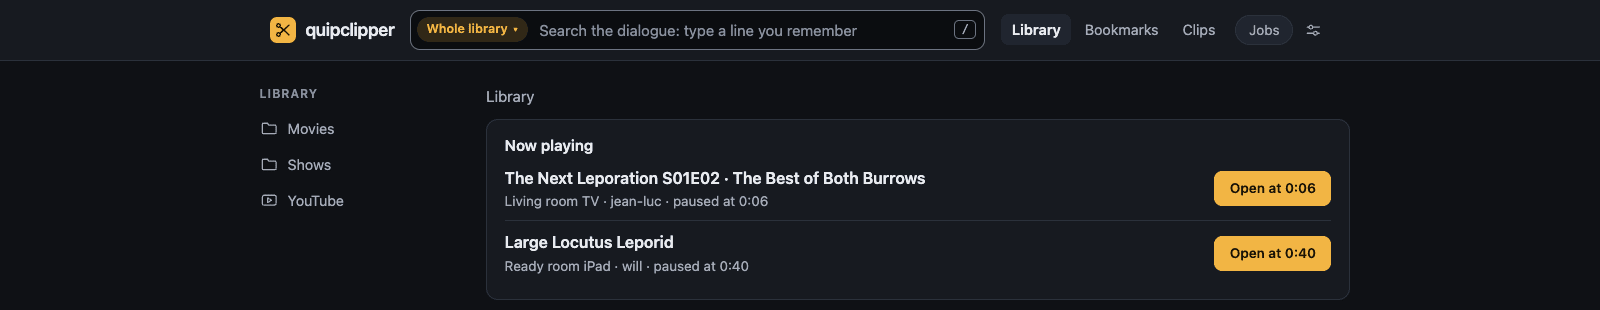
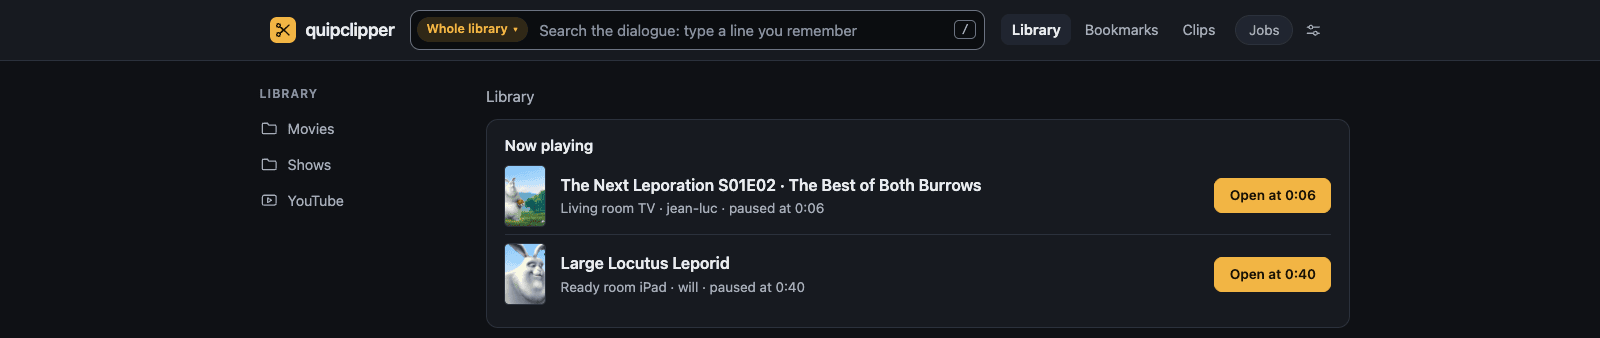
docs: screenshots and social preview of the 0.2.0 UI, with the waveform strip (M19)
Retook all seven README screenshots from the Large Locutus Leporid fixture on
a local dev server. Every one had changed since M17: the zoomable waveform
under the player (both workspaces, the phone), Jellyfin posters and stills
(library, Now playing, workspace header), and Copy link (Selection panel,
search hits).

- fake_jellyfin.py now serves the library listing the title index reads and
  posters/stills cut from the fixture's frames (needs FIXTURE).
- shoot.py waits for the waveform's peaks, scrolls the phone shot so the strip
  sits above the pinned selection, and fits the library and Now playing crops
  to their content (the poster rows are taller).
- social-preview.py draws a waveform strip with in/out handles, cue spans,
  playhead and ruler in place of the dialogue-map bars, rendered at 1280x640.
- README: the features list gains the waveform; captions and alt text
  describe what each shot now shows.

diff --git a/docs/screenshots/fixture/fake_jellyfin.py b/docs/screenshots/fixture/fake_jellyfin.py
@@ -1,28 +1,76 @@
-"""A fake Jellyfin for the Now playing screenshot: two clients, both paused.
+"""A fake Jellyfin for the screenshots: two paused clients, titles and artwork.
+
+    FIXTURE=<make-fixture.sh OUT_DIR> python3 fake_jellyfin.py
 
 Run it, then start the server with QC_JELLYFIN_URL=http://127.0.0.1:8097,
 QC_JELLYFIN_API_KEY=anything and
 QC_JELLYFIN_PATH_MAP=/data/movies=$FIXTURE/Movies:/data/shows=$FIXTURE/Shows.
+It answers the Now playing sessions, the library listing the title index reads, and
+the posters and stills, which it cuts from the fixture's own frames with ffmpeg on
+the first start (into $FIXTURE/art).
 """
 import json
+import os
+import subprocess
 from http.server import BaseHTTPRequestHandler, ThreadingHTTPServer
+from urllib.parse import parse_qs, urlparse
 
 TICKS = 10_000_000
+FIXTURE = os.environ["FIXTURE"]
+MOVIE_PATH = "/data/movies/Large Locutus Leporid (2016)/Large Locutus Leporid (2016).mp4"
+SEASON = "/data/shows/The Next Leporation/Season 01/"
+
+# Jellyfin ids and image tags are 32 hex digits.
+MOVIE, SERIES, SEASON_ID = "1" * 32, "2" * 32, "3" * 32
+EPISODES = [("4" * 32, 1, "Encounter at Meadowpoint", 20),
+            ("5" * 32, 2, "The Best of Both Burrows", 34),
+            ("6" * 32, 3, "Q Who Hops", 42)]
+TAG = "a" * 32
+
+# Image id -> (source file under FIXTURE, second, crop). Posters are 2:3, stills 16:9.
+POSTER = "crop=ih*2/3:ih,scale=400:600"
+STILL = "scale=640:360"
+MOVIE_FILE = "Movies/Large Locutus Leporid (2016)/Large Locutus Leporid (2016).mp4"
+ART = {MOVIE: (MOVIE_FILE, 40.1, POSTER), SERIES: (MOVIE_FILE, 71.0, POSTER)}
+for ep_id, n, title, dur in EPISODES:
+    ART[ep_id] = (f"Shows/The Next Leporation/Season 01/"
+                  f"The Next Leporation - S01E0{n} - {title}.mp4", dur / 2, STILL)
+
+
+def make_art():
+    out = os.path.join(FIXTURE, "art")
+    os.makedirs(out, exist_ok=True)
+    for item_id, (src, t, vf) in ART.items():
+        dst = os.path.join(out, item_id + ".jpg")
+        if not os.path.exists(dst):
+            subprocess.run(["ffmpeg", "-nostdin", "-v", "error", "-y", "-ss", str(t), "-i",
+                            os.path.join(FIXTURE, src), "-frames:v", "1", "-vf", vf,
+                            "-q:v", "3", dst], check=True)
+    return out
+
+
+def movie_item():
+    return {"Id": MOVIE, "Name": "Large Locutus Leporid", "ProductionYear": 2016,
+            "Type": "Movie", "RunTimeTicks": 100 * TICKS, "Path": MOVIE_PATH,
+            "ImageTags": {"Primary": TAG}}
+
+
+def episode_item(ep_id, n, title, dur):
+    return {"Id": ep_id, "Name": title, "Type": "Episode", "RunTimeTicks": dur * TICKS,
+            "SeriesName": "The Next Leporation", "SeriesId": SERIES,
+            "SeriesPrimaryImageTag": TAG, "SeasonId": SEASON_ID, "SeasonName": "Season 1",
+            "ParentIndexNumber": 1, "IndexNumber": n, "ProductionYear": 2016,
+            "Path": f"{SEASON}The Next Leporation - S01E0{n} - {title}.mp4",
+            "ImageTags": {"Primary": TAG}}
+
+
+ITEMS = [movie_item()] + [episode_item(*e) for e in EPISODES]
 SESSIONS = [
     {"Id": "s-lr", "UserName": "jean-luc", "DeviceName": "Living room TV",
-     "Client": "Jellyfin Android TV",
-     "NowPlayingItem": {"Id": "e2", "Name": "The Best of Both Burrows",
-                        "SeriesName": "The Next Leporation", "ParentIndexNumber": 1,
-                        "IndexNumber": 2, "Type": "Episode", "RunTimeTicks": 34 * TICKS,
-                        "Path": "/data/shows/The Next Leporation/Season 01/"
-                                "The Next Leporation - S01E02 - The Best of Both Burrows.mp4"},
+     "Client": "Jellyfin Android TV", "NowPlayingItem": ITEMS[2],
      "PlayState": {"PositionTicks": int(6.2 * TICKS), "IsPaused": True}},
     {"Id": "s-rr", "UserName": "will", "DeviceName": "Ready room iPad",
-     "Client": "Jellyfin Mobile (iOS)",
-     "NowPlayingItem": {"Id": "m1", "Name": "Large Locutus Leporid", "ProductionYear": 2016,
-                        "Type": "Movie", "RunTimeTicks": 100 * TICKS,
-                        "Path": "/data/movies/Large Locutus Leporid (2016)/"
-                                "Large Locutus Leporid (2016).mp4"},
+     "Client": "Jellyfin Mobile (iOS)", "NowPlayingItem": ITEMS[0],
      "PlayState": {"PositionTicks": int(40.1 * TICKS), "IsPaused": True}},
 ]
 
@@ -31,14 +79,33 @@ class Handler(BaseHTTPRequestHandler):
     def log_message(self, *a):
         pass
 
-    def do_GET(self):
-        body = SESSIONS if self.path.startswith("/Sessions") else {"Items": []}
-        data = json.dumps(body).encode()
-        self.send_response(200)
-        self.send_header("Content-Type", "application/json")
+    def send(self, data, ctype="application/json", status=200):
+        self.send_response(status)
+        self.send_header("Content-Type", ctype)
         self.send_header("Content-Length", str(len(data)))
         self.end_headers()
         self.wfile.write(data)
 
+    def do_GET(self):
+        url = urlparse(self.path)
+        query = parse_qs(url.query)
+        parts = url.path.strip("/").split("/")
+        if parts[0] == "Sessions":
+            return self.send(json.dumps(SESSIONS).encode())
+        if parts[0] == "Items" and len(parts) == 4 and parts[2] == "Images":
+            path = os.path.join(ART_DIR, parts[1] + ".jpg")
+            if not os.path.exists(path):
+                return self.send(b"{}", status=404)
+            with open(path, "rb") as f:
+                return self.send(f.read(), "image/jpeg")
+        if parts == ["Items"]:
+            if "Ids" in query:
+                items = [i for i in ITEMS if i["Id"] in query["Ids"][0].split(",")]
+            else:  # the title index reads the listing in pages
+                items = ITEMS if query.get("StartIndex", ["0"])[0] == "0" else []
+            return self.send(json.dumps({"Items": items}).encode())
+        self.send(json.dumps({"Items": []}).encode())
 
+
+ART_DIR = make_art()
 ThreadingHTTPServer(("127.0.0.1", 8097), Handler).serve_forever()

diff --git a/docs/screenshots/social-preview.py b/docs/screenshots/social-preview.py
@@ -7,14 +7,17 @@ FRAME.png is the fixture's frame at 0:40.1 (the big bunny), e.g.
 Writes OUT_DIR/social-preview.{json,figcraft,png}. Needs figcraft-cli and the kit from the
 figcraft skill (~/.claude/skills/figcraft/figcraft_kit.py).
 """
+import math
 import os
+import random
 import sys
 
 sys.path.insert(0, os.path.expanduser("~/.claude/skills/figcraft"))
 from figcraft_kit import Script, build  # noqa: E402
 
 # tokens.css, dark
-BG, SURFACE, RAISED, LINE = "#0F1115", "#171A20", "#202530", "#2B313C"
+BG, SURFACE, RAISED, SUNKEN = "#0F1115", "#171A20", "#202530", "#0B0D10"
+LINE, LINE_STRONG = "#2B313C", "#6A7282"
 TEXT, DIM, FAINT = "#E9EBEF", "#A6ACB8", "#8890A0"
 ACCENT, ACCENT_INK, PLAYHEAD = "#F2B544", "#1A1303", "#5BB5FF"
 ACCENT_SOFT = "#F2B54429"
@@ -57,7 +60,8 @@ s.text(page, "github.com/weckere/quipclipper", X, 548, size=20, color=FAINT)
 # --- right: a slice of the workspace ---------------------------------------------------
 CX, CW = 700, 500
 IW, IH = CW - 32, int((CW - 32) * 568 / 1008)
-CH = 16 + IH + 16 + 44 + 12 + 3 * 40 + 16   # video, map, three lines
+SH = 96                                     # the waveform strip
+CH = 16 + IH + 16 + SH + 12 + 3 * 40 + 16   # video, waveform, three lines
 CY = (H - CH) // 2
 card = s.frame(page, "workspace card", CX, CY, CW, CH, fill=SURFACE, radius=18, stroke=LINE)
 video = s.frame(card, "video", 16, 16, IW, IH, fill="#000000", radius=10)
@@ -67,20 +71,78 @@ SW = 340  # fits the line at 19 px
 s.rect(video, "subtitle box", (IW - SW) // 2, IH - 50, SW, 32, "#000000B8", radius=4)
 s.text(video, sub, 0, IH - 46, size=19, w=IW, align="center", color="#FFFFFF", style="Medium")
 
-# The dialogue map: a bar per line, the selection amber, the playhead blue.
+# The waveform strip, as the app draws it (app.js wfDraw): the subtitle lines as spans
+# along the top, the wave, the selection shaded between its amber in and out handles,
+# the playhead blue, a time ruler along the bottom. Zoomed to the selected line.
 MY = 16 + IH + 16
-strip = s.frame(card, "dialogue map", 16, MY, IW, 44, fill=BG, radius=8, stroke=LINE)
-cues = [2, 5, 9, 13.5, 17, 26, 29, 34, 38.5, 45, 52, 61, 66, 73, 86, 91, 96]
-for t in cues:
-    x = 10 + (IW - 20) * t / 100
-    s.rect(strip, f"bar {t}", x, 8, 3, 28, ACCENT if t == 38.5 else FAINT, radius=1)
-s.rect(strip, "playhead", 10 + (IW - 20) * 40.1 / 100, 4, 2, 36, PLAYHEAD)
+V0, V1 = 36.6, 43.6
+CUE_LANE, RULER = 18, 16
+strip = s.frame(card, "waveform", 16, MY, IW, SH, fill=SUNKEN, radius=8, stroke=LINE)
+
+
+def wx(t):
+    return IW * (t - V0) / (V1 - V0)
+
+
+TOP, BOTTOM = CUE_LANE, SH - RULER
+MID, HALF = (TOP + BOTTOM) / 2, (BOTTOM - TOP) / 2 - 2
+SEL_IN, SEL_OUT = 38.3, 41.9
+s.rect(strip, "selection", wx(SEL_IN), 0, wx(SEL_OUT) - wx(SEL_IN), BOTTOM, ACCENT_SOFT)
+
+cues = [(34.0, 37.5, "From this time forward, you will service us."),
+        (38.5, 41.5, "You will become one with the Borg."),
+        (45.0, 48.0, "Strength is irrelevant.")]
+for a, b, text in cues:
+    if b < V0 or a > V1:
+        continue
+    l, r = max(0, wx(a)), min(IW, wx(b))
+    s.rect(strip, f"cue {a}", l, 2, r - l, CUE_LANE - 4, RAISED)
+    for x in (wx(a), wx(b) - 1):
+        if 0 <= x <= IW - 1:
+            s.rect(strip, f"cue edge {x:.0f}", x, 2, 1, CUE_LANE - 4, LINE_STRONG)
+            s.rect(strip, f"cue line {x:.0f}", x, TOP, 1, BOTTOM - TOP, LINE)
+    span = s.frame(strip, f"cue label {a}", l + 4, 2, r - l - 8, CUE_LANE - 4)
+    s.text(span, text, 0, 0, size=10, color=TEXT)
+
+
+def level(t):
+    """A made-up speech envelope: syllables inside the lines, room tone between them."""
+    amp = 0.04
+    for a, b, _ in cues:
+        if a - 0.05 <= t <= b + 0.2:
+            edge = min(1, (t - a + 0.05) / 0.12, (b + 0.2 - t) / 0.3)
+            # Syllables of uneven length and stress, from a few incommensurate rates.
+            syll = (0.55 + 0.45 * math.sin(t * 9.7 + 1.3)) * abs(math.sin(t * 13.1 + math.sin(t * 3.7)))
+            amp = max(amp, edge * (0.12 + 0.85 * syll ** 0.8))
+    return min(1, amp)
+
+
+rng = random.Random(1701)  # fixed, so the picture doesn't change between runs
+s.rect(strip, "centre line", 0, round(MID), IW, 1, LINE)
+xs = [i * 1.5 for i in range(int(IW / 1.5) + 1)]
+peaks = [level(V0 + (V1 - V0) * x / IW) for x in xs]
+upper = [(x, MID - p * (0.7 + 0.3 * rng.random()) * HALF) for x, p in zip(xs, peaks)]
+lower = [(x, MID + p * (0.7 + 0.3 * rng.random()) * HALF) for x, p in zip(xs, peaks)]
+wave = "M" + " L".join(f"{x:.1f} {y:.1f}" for x, y in upper + lower[::-1]) + " Z"
+s.vector(strip, "wave", 0, 0, IW, SH, wave, fill=DIM)
+
+for t in range(37, 44):
+    x = wx(t)
+    s.rect(strip, f"tick {t}", x, BOTTOM, 1, 4, LINE_STRONG)
+    s.text(strip, f"0:{t}", x + 3, BOTTOM + 2, size=10, font=MONO, color=FAINT)
+
+s.rect(strip, "playhead", wx(40.1) - 1, 0, 2, BOTTOM, PLAYHEAD)
+for name, t, grip_x in (("in", SEL_IN, 0), ("out", SEL_OUT, -12)):
+    x = wx(t) - 1
+    s.rect(strip, f"{name} handle", x, 0, 2, BOTTOM, ACCENT)
+    s.rect(strip, f"{name} grip", x + grip_x, BOTTOM - 26, 14, 26, ACCENT, radius=3,
+           stroke=ACCENT_INK, strokeWeight=1)
 
 # Three script lines, the middle one selected.
 lines = [("0:34.0", "From this time forward, you will service us."),
          ("0:38.5", "You will become one with the Borg."),
          ("0:45.0", "Strength is irrelevant.")]
-LY = MY + 44 + 12
+LY = MY + SH + 12
 for i, (t, text) in enumerate(lines):
     y = LY + i * 40
     sel = i == 1
@@ -92,4 +154,4 @@ for i, (t, text) in enumerate(lines):
            style="SemiBold" if sel else "Regular")
 
 build(s, os.path.join(out_dir, "social-preview.figcraft"),
-      png=os.path.join(out_dir, "social-preview.png"))
+      png=os.path.join(out_dir, "social-preview.png"), scale=1)

diff --git a/docs/screenshots/fixture/shoot.py b/docs/screenshots/fixture/shoot.py
@@ -39,7 +39,15 @@ async def open_movie_from_now_playing(page):
     await page.wait_for_function("document.querySelector('#script-list .sel, #script-list [aria-selected=true], #script-list .selected') !== null || (typeof clipFirst !== 'undefined' && clipFirst >= 0)")
     await page.wait_for_function("(() => { const v = document.getElementById('player'); return v && v.readyState >= 2 && Math.abs(v.currentTime - 40.1) < 0.6; })()", timeout=20000)
     await page.evaluate("document.getElementById('player').pause()")
+    # The waveform strip: wait for its peaks (the overview is built on first open).
+    await page.wait_for_function("wf.data !== null && document.getElementById('wf-note').textContent === ''", timeout=60000)
     await settle(page, 1500)
+
+
+async def bottom(page, selector, pad=16):
+    """The page y just below the last element matching `selector`, plus `pad`."""
+    box = await page.locator(selector).last.bounding_box()
+    return round(box["y"] + box["height"] + pad)
 
 
 async def shot(page, name, clip=None, full=False):
@@ -59,14 +67,16 @@ async def main():
 
         # Index the season first, so the card says so and search is quick.
         page = await home(dark)
-        await shot(page, "now-playing", clip={"x": 0, "y": 0, "width": 1600, "height": 310})
+        await shot(page, "now-playing", clip={"x": 0, "y": 0, "width": 1600,
+                                            "height": await bottom(page, "#nowplaying-card", 10)})
         await page.evaluate("p => browse(p)", SHOWS + "/The Next Leporation/Season 01")
         await settle(page)
         if await page.locator("#index-btn").is_visible():
             await page.click("#index-btn")
             await page.wait_for_function("!document.getElementById('index-btn') || document.getElementById('index-btn').hidden || /indexed/i.test(document.getElementById('index-card-text').textContent)", timeout=60000)
             await settle(page, 1500)
-        await shot(page, "library", clip={"x": 0, "y": 0, "width": 1600, "height": 425})
+        await shot(page, "library", clip={"x": 0, "y": 0, "width": 1600,
+                                        "height": await bottom(page, "#entries li")})
 
         # Dialogue search over the whole library (from a folder, so the Now
         # playing card is out of the way), tick two hits, preview the first.
@@ -120,6 +130,13 @@ async def main():
                                     is_mobile=True, has_touch=True, color_scheme="dark")
         page = await home(phone)
         await open_movie_from_now_playing(page)
+        # Scroll the waveform strip up to just above the selection pinned to the bottom.
+        await page.evaluate("""() => {
+            const wave = document.getElementById('waveform').getBoundingClientRect();
+            const bar = document.querySelector('.ws-clip').getBoundingClientRect();
+            window.scrollBy(0, wave.bottom + 12 - bar.top);
+        }""")
+        await settle(page, 800)
         await shot(page, "phone")
         await phone.close()
         await b.close()

diff --git a/README.md b/README.md
@@ -13,7 +13,7 @@ fuzzy-search the line, map the match back to its time span, and cut it with ffmp
 mkvmerge. quipclipper is a **self-hosted web app** over your own media folders, plus a
 **CLI** that can do everything the web app does.
 
-![The workspace: a video with its script, one line selected, ready to clip](docs/screenshots/workspace-dark.png)
+![The workspace: a video with its script, one line selected, and the waveform strip under the player with the selection's in and out handles](docs/screenshots/workspace-dark.png)
 
 ## Features
 
@@ -23,6 +23,9 @@ mkvmerge. quipclipper is a **self-hosted web app** over your own media folders, 
 - **A workspace for each file:** the player, a dialogue map of where the talking is, and the
   scrolling script. Set the selection by whole lines (Start / End), add padding, and see it
   loop before you cut.
+- **Exact cue points:** a zoomable waveform under the player (down to 20 ms across) with the
+  subtitle lines on it. Drag the in and out handles, snapped to a zero crossing, a quiet
+  spot or a line's edge, and audition the first and last second before you cut.
 - **Clips that keep the source:** a lossless stream copy (every audio track, 5.1/7.1
   intact) or a frame-exact H.264 re-encode (Intel Quick Sync when present); full-mix
   WAV/FLAC; surround split into channel groups (just the centre channel, say); GIFs from
@@ -48,32 +51,35 @@ mkvmerge. quipclipper is a **self-hosted web app** over your own media folders, 
 
 ## Screenshots
 
-**The library:** the media roots on the left, and a Dialogue index card that caches
-subtitles so dialogue search is instant.
+**The library:** the media roots on the left, a Dialogue index card that caches
+subtitles so dialogue search is instant, and Jellyfin's stills on the episodes.
 
-![The library, with the Dialogue index card](docs/screenshots/library.png)
+![The library, with the Dialogue index card and episode stills from Jellyfin](docs/screenshots/library.png)
 
 **Dialogue search** over the whole library: grouped by file, the words highlighted, a
 preview of the lines around a hit, and a batch bar for the ticked lines.
 
 ![Search results across the library, grouped by file, with a preview](docs/screenshots/search-results.png)
 
-**The workspace** in the light theme (the dark one is at the top).
+**The workspace** in the light theme (the dark one is at the top). Under the player, the
+dialogue map outlines the stretch the waveform shows, and the waveform's amber handles
+mark the selected line's in and out points.
 
-![The workspace in the light theme](docs/screenshots/workspace-light.png)
+![The workspace in the light theme, with the waveform strip and its handles under the player](docs/screenshots/workspace-light.png)
 
 **Now playing** from Jellyfin: open what a client is playing, at its playhead.
 
-![Now playing from Jellyfin](docs/screenshots/now-playing.png)
+![Now playing from Jellyfin, with each item's poster](docs/screenshots/now-playing.png)
 
 **Send to LeadStinger:** the ⚡ toggle beside Make clip sends the line to LeadStinger
 instead of the clips library.
 
 <img src="docs/screenshots/send-to-leadstinger.png" width="880" alt="The Selection panel with the Send to LeadStinger toggle ticked">
 
-**On a phone**, the selection stays pinned to the bottom of the screen.
+**On a phone**, the selection stays pinned to the bottom of the screen, and the waveform's
+handles have grips big enough for a finger.
 
-<p align="center"><img src="docs/screenshots/phone.png" width="300" alt="The workspace on a phone, with the selection pinned to the bottom"></p>
+<p align="center"><img src="docs/screenshots/phone.png" width="300" alt="The workspace on a phone: the player, the waveform strip with its handles, and the selection pinned to the bottom"></p>
 
 ## Install
 
@@ -189,7 +195,7 @@ The web app aims at WCAG 2.2 AA, and tests keep it there:
   can say; a skip link jumps past the top bar;
 - the keyboard does everything: `/` to search, Space or K to play, the script as one tab
   stop (↑ ↓ to move, Enter to play, S and E to set the selection), arrow keys on the
-  dialogue map and seek bar;
+  dialogue map, the seek bar and the waveform's handles;
 - finished and failed jobs, the selection and match counts are announced;
 - Settings has subtitle size (Normal, Large, Extra large) and a solid subtitle background;
   both themes meet AA contrast (a test checks every colour pair), with a stronger palette

diff --git a/docs/screenshots/fixture/README.md b/docs/screenshots/fixture/README.md
@@ -23,10 +23,11 @@ are a few Borg lines for dialogue search to find.
    section) and `Shows/The Next Leporation/Season 01/` (three short "episodes" of it,
    each with its share of the subtitles).
 
-2. Start a fake Jellyfin with two paused clients (for the Now playing card):
+2. Start a fake Jellyfin with two paused clients (for the Now playing card), the titles
+   and the posters and stills (cut from the fixture's own frames into `~/qc-fixture/art`):
 
    ```bash
-   python3 docs/screenshots/fixture/fake_jellyfin.py
+   FIXTURE=~/qc-fixture python3 docs/screenshots/fixture/fake_jellyfin.py
    ```
 
 3. Start the web app on port 8017 against the fixture:
@@ -49,4 +50,5 @@ are a few Borg lines for dialogue search to find.
    ```
 
    The search shot is cropped to 1600 × 850 (above the footer) (`ffmpeg -vf crop=1600:850:0:0`).
-   Look at every image before committing it.
+   The workspace shots wait for the waveform's peaks; the phone shot scrolls the waveform
+   strip up to just above the pinned selection. Look at every image before committing it.
